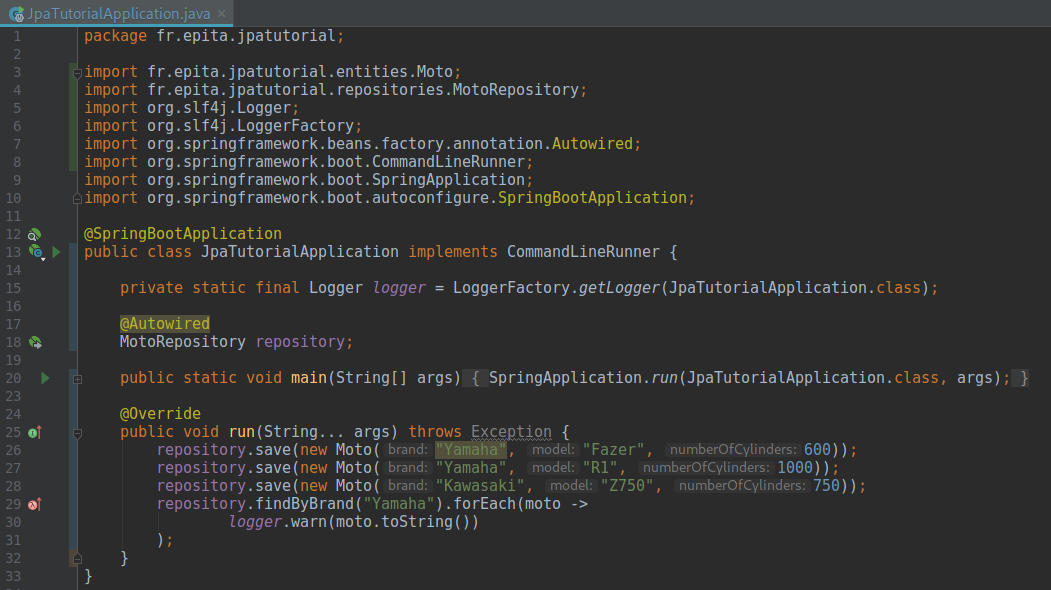
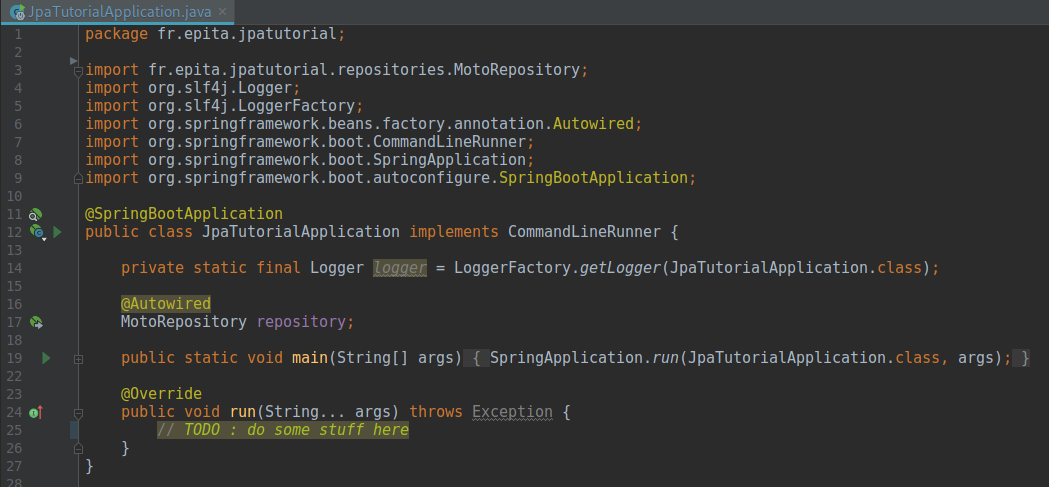
class_moto.png updated

diff --git a/src/main/java/fr/epita/jpatutorial/JpaTutorialApplication.java b/src/main/java/fr/epita/jpatutorial/JpaTutorialApplication.java
@@ -1,6 +1,5 @@
 package fr.epita.jpatutorial;
 
-import fr.epita.jpatutorial.entities.Moto;
 import fr.epita.jpatutorial.repositories.MotoRepository;
 import org.slf4j.Logger;
 import org.slf4j.LoggerFactory;
@@ -23,12 +22,7 @@ public class JpaTutorialApplication implements CommandLineRunner {
 
     @Override
     public void run(String... args) throws Exception {
-        repository.save(new Moto("Yamaha", "Fazer", 600));
-        repository.save(new Moto("Yamaha", "R1", 1000));
-        repository.save(new Moto("Kawasaki", "Z750", 750));
-        repository.findByBrand("Yamaha").forEach(moto ->
-                logger.warn(moto.toString())
-        );
+        // TODO : do some stuff here
     }
 }
 
